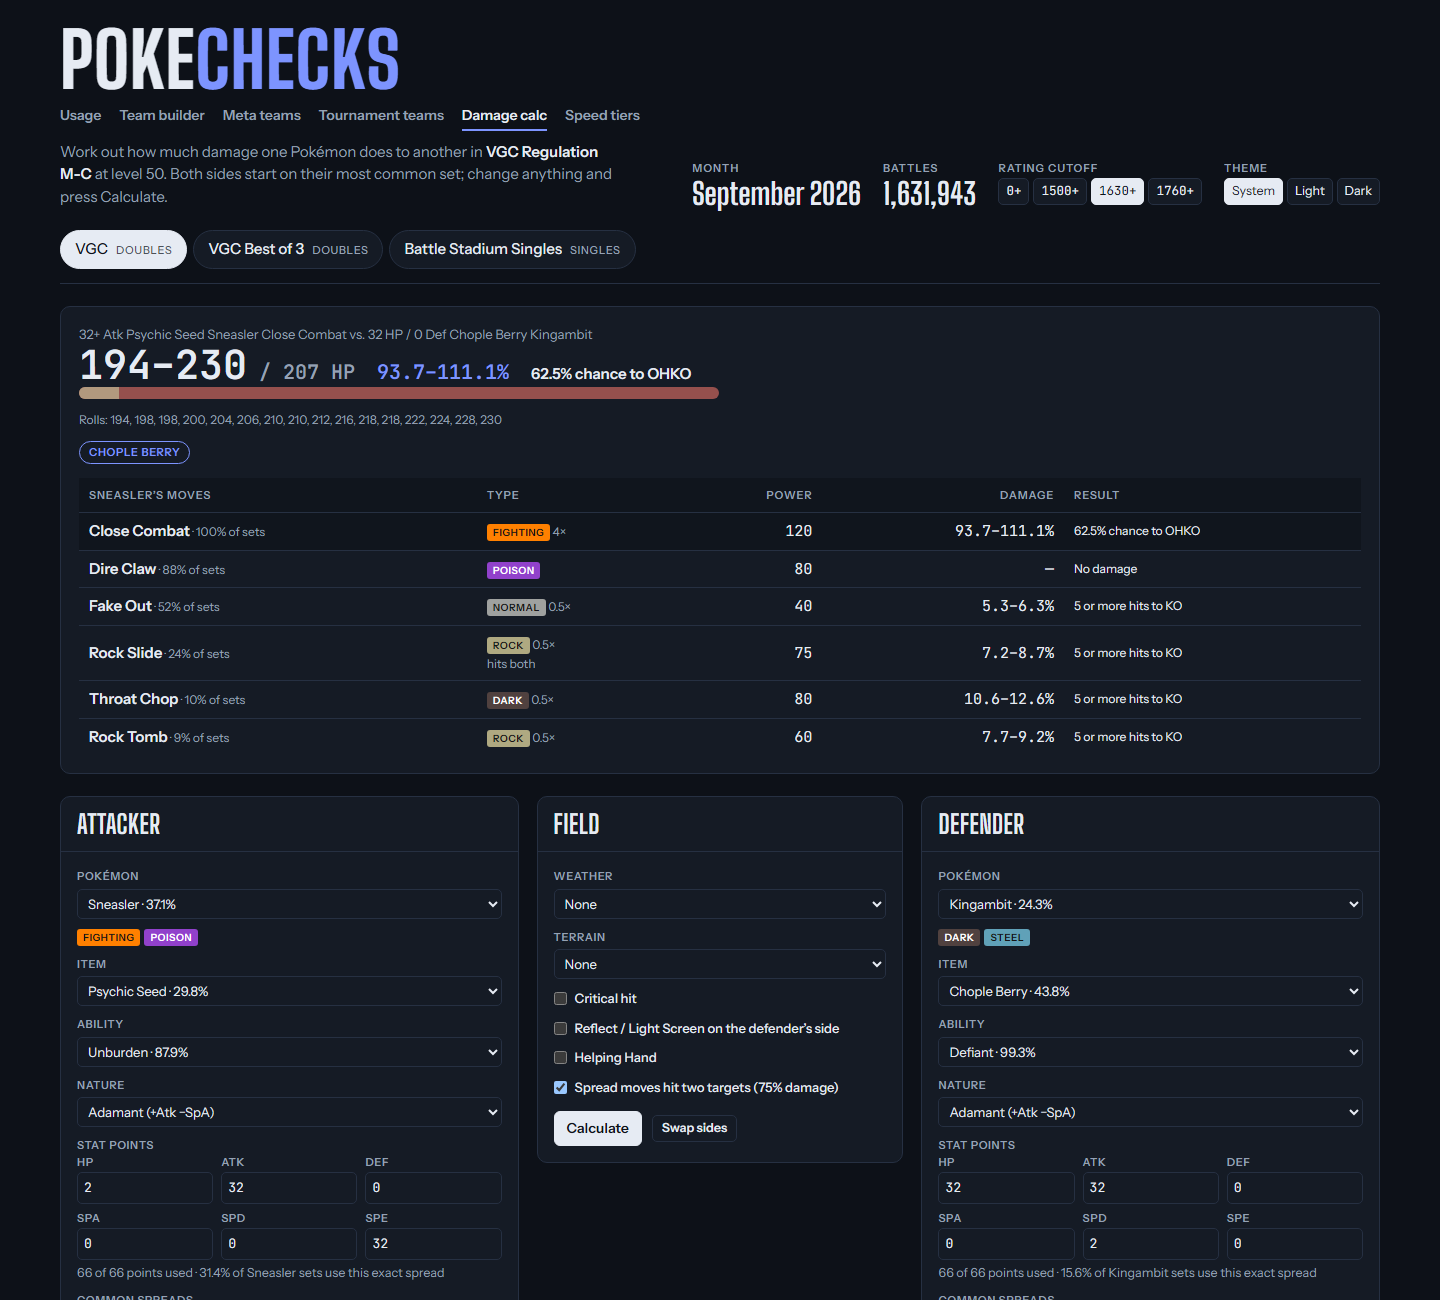
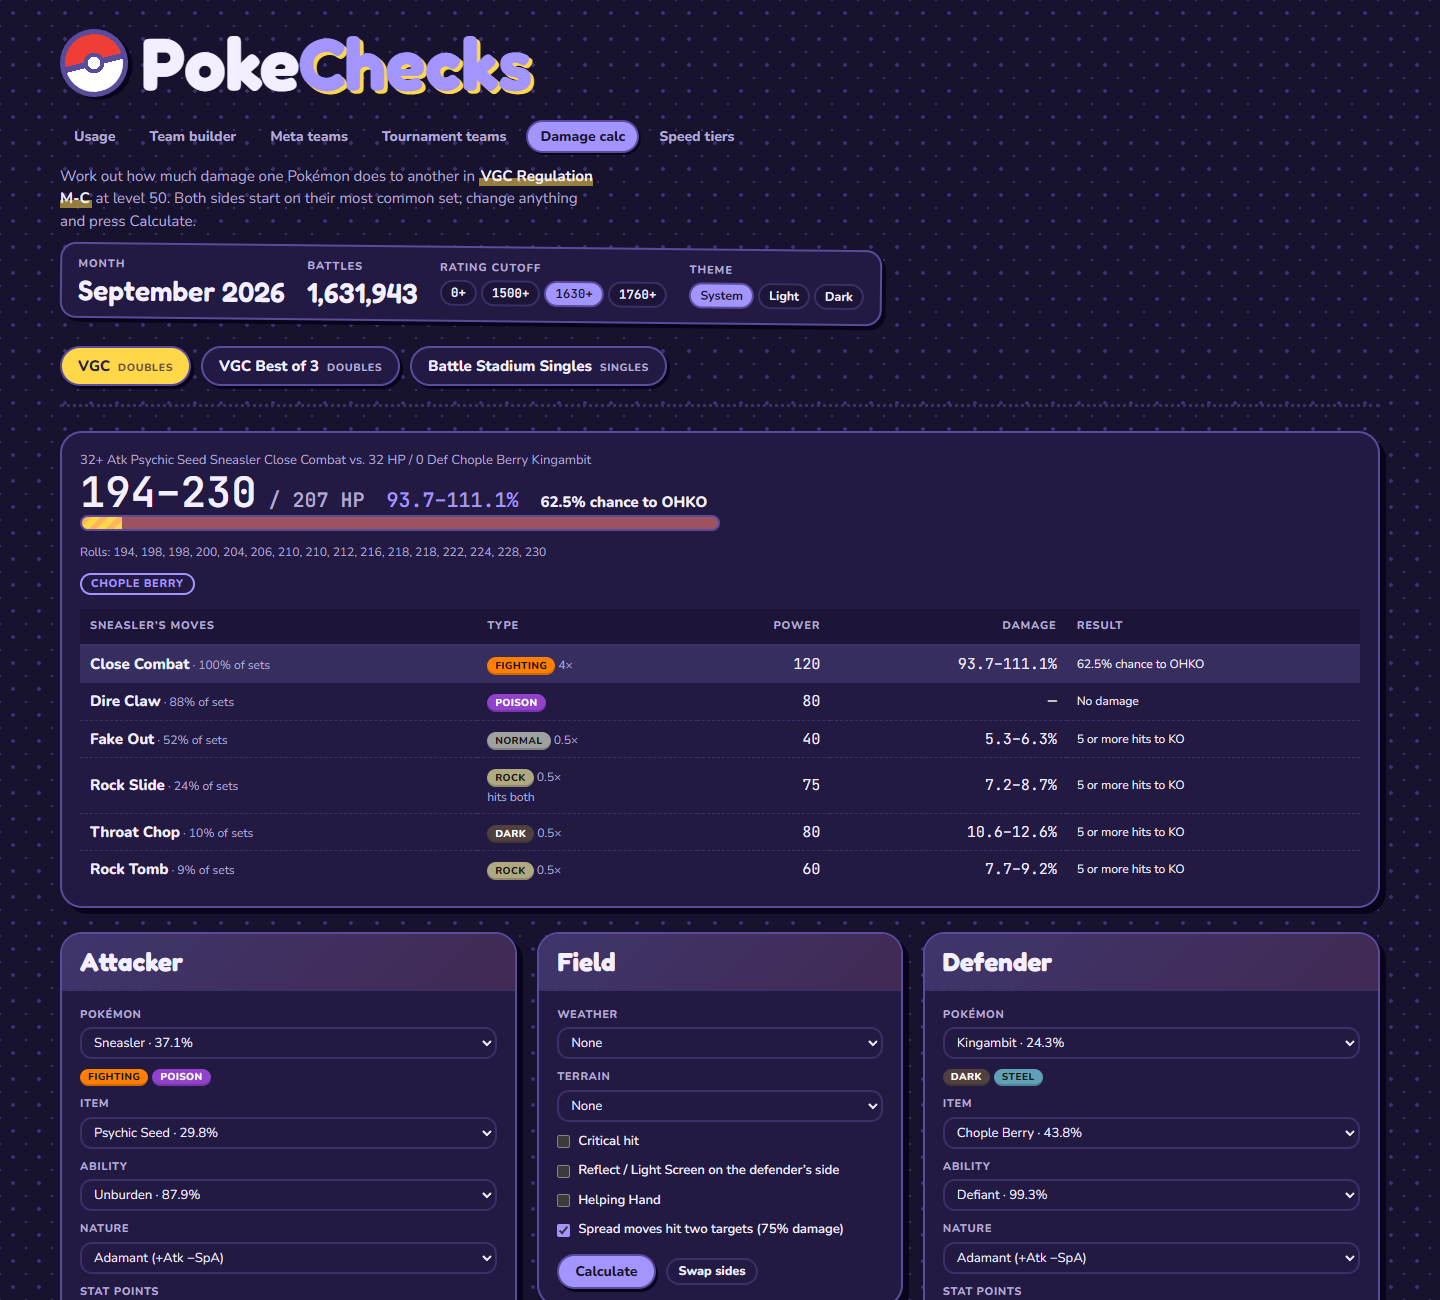
Update README screenshots for the new look

diff --git a/README.md b/README.md
@@ -6,7 +6,10 @@ VGC Best of 3 and Battle Stadium Singles.
 
 Written in Rust (edition 2024, Rust 1.99) with Axum and Maud. Pages are rendered on the
 server and need no JavaScript. A System / Light / Dark switch in the header lets each
-visitor pick a theme, remembered in a cookie; System follows the device setting.
+visitor pick a theme, remembered in a cookie; System follows the device setting. The look
+is playful on purpose: polka-dot paper in light mode, a starry night in dark mode, sticker
+panels, bubbly type and a CSS Poké Ball logo. Animations switch off for visitors who
+prefer reduced motion.
 
 Every meta team and tournament team has a "How this team plays" section for newer players:
 a short starting plan (the team's main idea, a simple lead, which Pokémon to Mega Evolve,
@@ -49,6 +52,8 @@ The pages share one URL, so links keep the format, comparison and team:
   builder fills them in from the most common spread for each Pokémon and nature.
 
 ## Screenshots
+
+All shown in the dark theme.
 
 **Usage**
 
